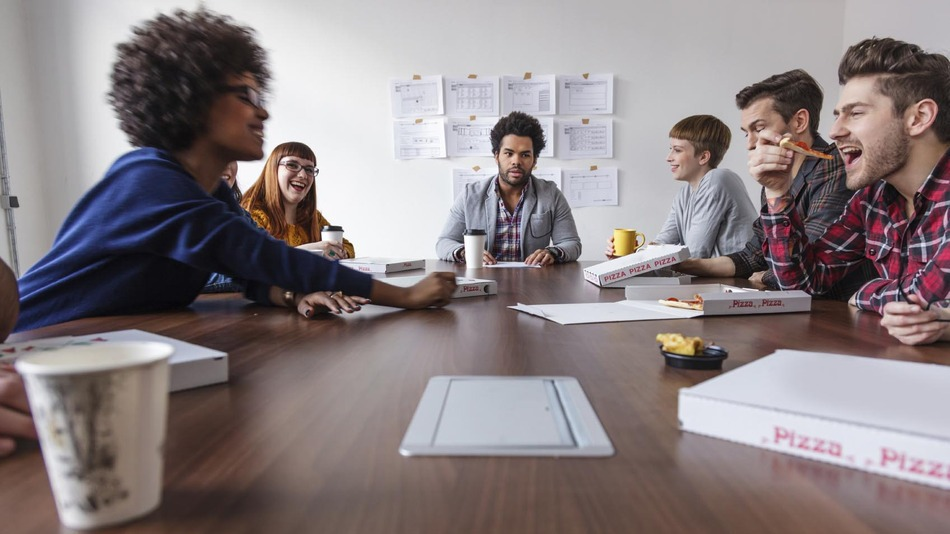
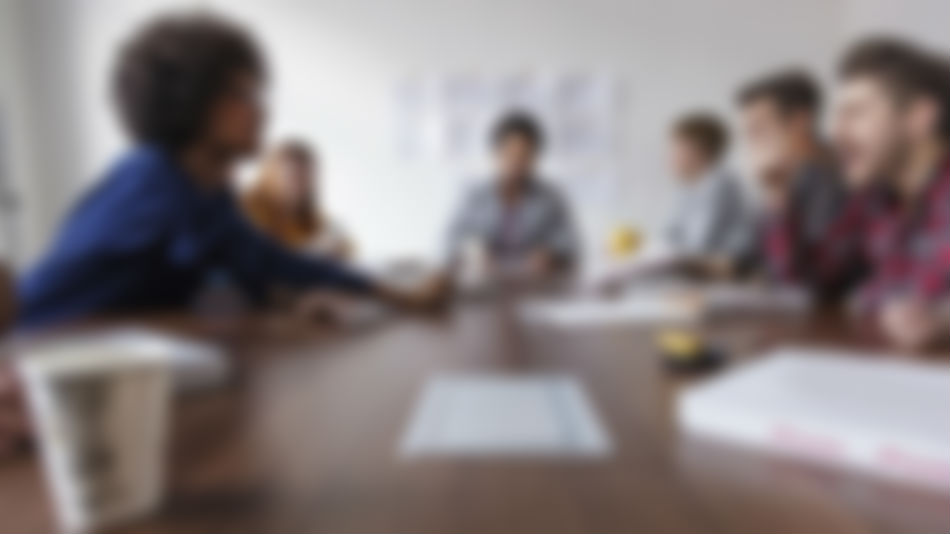
Nuevos cambios visuales

diff --git a/views/cuentas.html b/views/cuentas.html
@@ -5,48 +5,51 @@
 <!-- http://librosweb.es/libro/bootstrap_3/capitulo_2/tipos_de_rejillas.html -->
 <!-- Inicio del Bloque canción  -->
 <div class="card-deck-me">
-	{% for cuenta in cuentas %} 
-		{% if cuenta.cantidad>=0 %}
-			<div  class="card-me success" style="max-width: 20rem;">
+	{% for cuenta in cuentas %} {% if cuenta.cantidad>=0 %}
+	<div class="card-me success" style="max-width: 20rem;">
 		{% else %}
-			<div  class="card-me danger" style="max-width: 20rem; ">
-		{% endif %}
+		<div class="card-me danger" style="max-width: 20rem; ">
+			{% endif %}
 			<div class="card-header-me">Cuentas max joven</div>
 			<div class="card-body-me">
 				<h4 class="card-title-me">Titular: {{cuenta.titular}}</h4>
-				<p >IBAN {{cuenta.numero}}</p>
-				<p >Tipo: {{cuenta.tipo}}</p>
-				<p >Saldo: {{cuenta.cantidad}}</p>
-				<a id="amodificar" class="btn btn-info" style="visibility: hidden;" href="/cuenta/modificar/{{ cuenta._id.toString() }}" ><span class="glyphicon glyphicon-wrench"></span> Modificar</a>
-				<a id="aeliminar" class="btn btn-danger" style="visibility: hidden;" href="/cuenta/delete/{{ cuenta._id.toString() }}" ><span class="glyphicon glyphicon-trash"></span> Borrar</a>
+				<p><strong>IBAN {{cuenta.numero}}</strong></p>
+				<p>Tipo: {{cuenta.tipo}}</p>
+				<p>Saldo: {{cuenta.cantidad}}€</p>
+				<a id="amodificar" class="btn btn-info" style="visibility: hidden;" href="/cuenta/modificar/{{ cuenta._id.toString() }}">
+					<span class="glyphicon glyphicon-wrench"></span> Modificar</a>
+				<a id="aeliminar" class="btn btn-danger" style="visibility: hidden;" href="/cuenta/delete/{{ cuenta._id.toString() }}">
+					<span class="glyphicon glyphicon-trash"></span> Borrar</a>
 			</div>
-			<a id="detail" href="/transacciones/{{ cuenta.numero }}" style="visibility: hidden; background: rgba(255, 255, 255,0.5);width: 42px;right: 0px !important;position: absolute;height: 100%;text-align: center;text-decoration: none;padding: 77px 33px;">&#8250;</a>
+			<a id="detail" title="Transacciones de la cuenta" href="/transacciones/{{ cuenta.numero }}" style="visibility: hidden; background: rgba(255, 255, 255,0.5);width: 42px;right: 0px !important;position: absolute;height: 100%;text-align: center;text-decoration: none;padding: 77px 33px;">
+				<i class="fa fa-exchange" aria-hidden="true"></i>
+			</a>
 		</div>
-	{% endfor %}
-</div>
-<!-- Fin del Bloque canción  -->
-<script>
-$( ".card-me" ).mouseover(function(e) {
-	console.log($(this).children()[2]);
-	$(this).children("#detail").css("visibility","visible");
-	$(this).children(".card-body-me").children("#amodificar").css("visibility","visible");
-	$(this).children(".card-body-me").children("#aeliminar").css("visibility","visible");
-});
-$( ".card-me" ).mouseout(function(e) {
-	console.log(e);
-	$(this).children("#detail").css("visibility","hidden");
-	$(this).children(".card-body-me").children("#amodificar").css("visibility","hidden");
-	$(this).children(".card-body-me").children("#aeliminar").css("visibility","hidden");
-});
+		{% endfor %}
+	</div>
+	<!-- Fin del Bloque canción  -->
+	<script>
+		$(".card-me").mouseover(function (e) {
+			console.log($(this).children()[2]);
+			$(this).children("#detail").css("visibility", "visible");
+			$(this).children(".card-body-me").children("#amodificar").css("visibility", "visible");
+			$(this).children(".card-body-me").children("#aeliminar").css("visibility", "visible");
+		});
+		$(".card-me").mouseout(function (e) {
+			console.log(e);
+			$(this).children("#detail").css("visibility", "hidden");
+			$(this).children(".card-body-me").children("#amodificar").css("visibility", "hidden");
+			$(this).children(".card-body-me").children("#aeliminar").css("visibility", "hidden");
+		});
 
-</script>
+	</script>
 
 
-<div class="row text-left addButton">
-	<a href="/cuenta/crear" class="btn btn-info" role="button"><span class="glyphicon glyphicon-plus"></span> Nueva cuenta</a>
-</div>
-<script>
-  		$('.navbar li').removeClass('active');
-  		$('#mCuentas').addClass('active');
-</script>
-{% endblock %}
+	<div class="row text-left addButton">
+		<a href="/cuenta/crear" class="btn btn-info" role="button">
+			<span class="glyphicon glyphicon-plus"></span> Nueva cuenta</a>
+	</div>
+	<script>
+		$('.navbar li').removeClass('active');
+		$('#mCuentas').addClass('active');
+	</script> {% endblock %}

diff --git a/routes/transacciones.js b/routes/transacciones.js
@@ -1,7 +1,7 @@
 module.exports = function (app, swig, gestorBD, util) {
 
     app.get("/transacciones", function (req, res) {
-    	var criterio = {};
+    	var criterio = { correo : req.session.usuario};
 		if( req.query.busqueda != null ){
 			criterio = { "concepto" : {$regex : ".*("+req.query.busqueda.toLowerCase()
 				+"|"+util.capitalize(req.query.busqueda)+").*"}  };
@@ -30,6 +30,7 @@ module.exports = function (app, swig, gestorBD, util) {
                     cabecera: "Todas las transacciones:",
                     transacciones: transacciones,
                     paginas: paginas,
+                    user: req.session.usuario+ "  (" + total + ")",
                     actual: pg
                 });
                 res.send(respuesta);
@@ -61,14 +62,15 @@ module.exports = function (app, swig, gestorBD, util) {
     app.post('/transacciones/crear', function (req, res) {
         var transaccion = {
             cuenta: req.body.cuenta,
-            fecha: Date(),
+            fecha: new  Date().getDate()+"/"+(parseInt(new Date().getMonth())+1)+"/"+ new Date().getFullYear(),
             cantidad: req.body.cantidad,
             concepto: req.body.concepto,
             destinatario: req.body.destinatario,
+            correo : req.session.usuario,
             favorita: false
         }
         gestorBD.insertarTransaccion(transaccion, function (id) {
-            var criterio = { cuenta: transaccion.cuenta };
+            var criterio = { cuenta: transaccion.cuenta,correo : req.session.usuario };
             gestorBD.obtenerTransacciones(criterio, 1, function (transacciones, total) {
                 if (transacciones == null) {
                     res.redirect("/transacciones/" + req.body.cuenta + "?mensaje=La transacción no se ha podido efectuar" +
@@ -206,6 +208,7 @@ module.exports = function (app, swig, gestorBD, util) {
                     transacciones: transacciones,
                     cuenta: req.params.cuenta,
                     paginas: paginas,
+                    user:req.params.cuenta + "  (" + total + ")",
                     actual: pg
                 });
                 res.send(respuesta);

diff --git a/views/transacciones.html b/views/transacciones.html
@@ -3,8 +3,8 @@
 
 <!-- Nueva transaccion -->
 <div class="row text-right" id="nuevaCuenta">
-	<h1 class="pull-left">Transacciones:<h1>
-	<a href="/transacciones/crear?cuenta={{cuenta}}" class="btn btn-info" role="button">Nueva transaccion</a>
+	<h1 class="pull-left">Transacciones de {{user}}:<h1>
+	<a href="/transacciones/crear?cuenta={{cuenta}}" class="btn btn-info" role="button"><span class="glyphicon glyphicon-plus"></span> Nueva transaccion</a>
 	</div>
 <div class="row text-right search">
 	<div>
@@ -48,7 +48,7 @@
 				<td>{{ transaccion.fecha}}</td>
 				<td>{{ transaccion.cuenta }}</td>
 				<td>{{ transaccion.concepto }}</td>
-				<td>{{ transaccion.cantidad }}</td>
+				<td>{{ transaccion.cantidad }}€</td>
 				<td>{{ transaccion.destinatario }}</td>
 				<td>
 					<a href="/transacciones/repetir?id={{transaccion._id.toString()}}&cuenta={{transaccion.cuenta}}"><span class="glyphicon glyphicon-refresh"></span> Repetir</a>

diff --git a/modules/gestorBD.js b/modules/gestorBD.js
@@ -186,10 +186,11 @@ module.exports = {
 					} else {
 						var transaccionRep = {
 								cuenta: transacciones[0].cuenta,
-								fecha: Date(),
+								fecha: new  Date().getDate()+"/"+(parseInt(new Date().getMonth())+1)+"/"+ new Date().getFullYear(),
 								cantidad: transacciones[0].cantidad,
 								concepto: transacciones[0].concepto,
 								destinatario: transacciones[0].destinatario,
+								correo : req.session.usuario,
 								favorita: transacciones[0].favorita
 						}
 						collection.insert(transaccionRep, function(err, result) {

diff --git a/views/empresas.html b/views/empresas.html
@@ -48,7 +48,7 @@
                 </ul>
                 <ul class="nav navbar-nav">
                         <li>
-                          <a href="/blanc">
+                          <a href="#">
                             <i class="fa fa-car" aria-hidden="true"></i>                            
                             Renting</a>
                         </li>

diff --git a/public/css.css b/public/css.css
@@ -44,7 +44,7 @@
 .baseBody{
 	position: center;
 	align-content: left;
-	background: url('/img/cuentaspag.jpg')  no-repeat;
+	background: url('/img/cuentaspag2.jpg')  no-repeat;
 	background-size: 100%;
 	height: 100%;
 }
@@ -252,7 +252,6 @@
 #amodificar {
 	margin-bottom:5px;
 	width:60%;
-	background-color:
 }
 
 #aeliminar {
